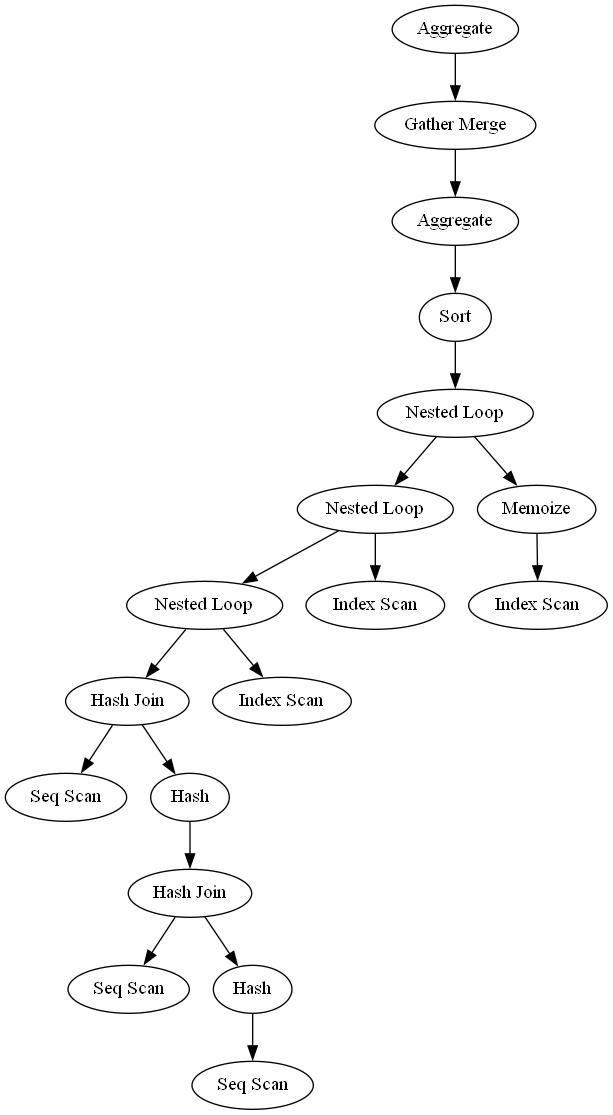
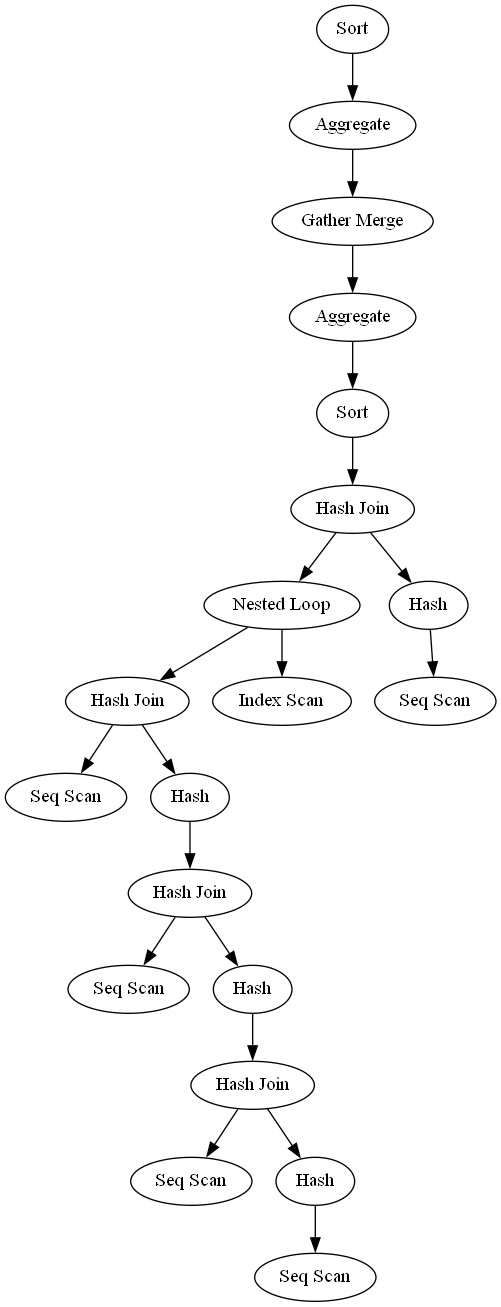
change the building tree proccess

Changed region(s): [[0.0, 0.0, 1.0, 1.0]]

diff --git a/project.py b/project.py
@@ -5,6 +5,8 @@ from typing import Dict, Any, List, Tuple, Set
 import psycopg2
 import sqlparse
 
+import interface
+
 SQL_KEYWORDS = set(
     "SELECT, FROM, WHERE, GROUP BY, HAVING, ORDER BY, LIMIT, OFFSET, JOIN, INNER JOIN, LEFT JOIN, RIGHT JOIN, FULL JOIN, CROSS JOIN, NATURAL JOIN, USING, DISTINCT, UNION, INTERSECT, EXCEPT, VALUES, FETCH, NEXT, LAST, FIRST, PRIOR, CURRENT, ROW, ROWS, OVER, PARTITION BY, RANK, DENSE_RANK, ROW_NUMBER, LAG, LEAD, FIRST_VALUE, LAST_VALUE, NTH_VALUE, CASE, WHEN, THEN, ELSE, END, CAST, COALESCE, NULLIF, GREATEST, LEAST".split(
         ", "
@@ -24,8 +26,13 @@ class QueryPlanNode:
         self.right: QueryPlanNode = right
 
     def __hash__(self):
-        return hash(self.node + str(self.totalCost) + str(
-            self.ParentRelation) + "true" if self.left else "false" + "true" if self.right else "false")
+        return hash(
+            self.node + str(self.totalCost) + str(self.ParentRelation) + "true"
+            if self.left
+            else "false" + "true"
+            if self.right
+            else "false"
+        )
 
     def __eq__(self, other: Any) -> bool:
         if not isinstance(other, QueryPlanNode):
@@ -38,10 +45,10 @@ class QueryPlanNode:
 
 class QueryPlanSortNode(QueryPlanNode):
     def __init__(
-            self,
-            node: Dict[str, Any],
-            left: QueryPlanNode = None,
-            right: QueryPlanNode = None,
+        self,
+        node: Dict[str, Any],
+        left: QueryPlanNode = None,
+        right: QueryPlanNode = None,
     ):
         super().__init__(node, left, right)
         self.SortKeys: List[str] = node["Sort Key"]
@@ -64,10 +71,10 @@ class QueryPlanSortNode(QueryPlanNode):
 
 class QueryPlanGroupNode(QueryPlanNode):
     def __init__(
-            self,
-            node: Dict[str, Any],
-            left: QueryPlanNode = None,
-            right: QueryPlanNode = None,
+        self,
+        node: Dict[str, Any],
+        left: QueryPlanNode = None,
+        right: QueryPlanNode = None,
     ):
         super().__init__(node, left, right)
         self.GroupKeys: List[str] = node["Group Key"]
@@ -90,10 +97,10 @@ class QueryPlanGroupNode(QueryPlanNode):
 
 class QueryPlanJoinNode(QueryPlanNode):
     def __init__(
-            self,
-            node: Dict[str, Any],
-            left: QueryPlanNode = None,
-            right: QueryPlanNode = None,
+        self,
+        node: Dict[str, Any],
+        left: QueryPlanNode = None,
+        right: QueryPlanNode = None,
     ):
         super().__init__(node, left, right)
         self.JoinType: str = node["Join Type"]
@@ -121,18 +128,18 @@ class QueryPlanJoinNode(QueryPlanNode):
         if not isinstance(other, QueryPlanJoinNode):
             return False
         return (
-                super().__eq__(other)
-                and self.JoinType == other.JoinType
-                and self.JoinCond == other.JoinCond
+            super().__eq__(other)
+            and self.JoinType == other.JoinType
+            and self.JoinCond == other.JoinCond
         )
 
 
 class QueryPlanScanNode(QueryPlanNode):
     def __init__(
-            self,
-            node: Dict[str, Any],
-            left: QueryPlanNode = None,
-            right: QueryPlanNode = None,
+        self,
+        node: Dict[str, Any],
+        left: QueryPlanNode = None,
+        right: QueryPlanNode = None,
     ):
         super().__init__(node, left, right)
         self.RelationName: str = node["Relation Name"]
@@ -149,18 +156,23 @@ class QueryPlanScanNode(QueryPlanNode):
         return f"{super().__str__()}"
 
     def __hash__(self):
-        return hash(str(super().__hash__()) + str(self.RelationName) + str(self.IndexName) + str(self.IndexCond) + str(
-            self.Filter))
+        return hash(
+            str(super().__hash__())
+            + str(self.RelationName)
+            + str(self.IndexName)
+            + str(self.IndexCond)
+            + str(self.Filter)
+        )
 
     def __eq__(self, other: Any) -> bool:
         if not isinstance(other, QueryPlanScanNode):
             return False
         return (
-                super().__eq__(other)
-                and self.RelationName == other.RelationName
-                and self.IndexName == other.IndexName
-                and self.IndexCond == other.IndexCond
-                and self.Filter == other.Filter
+            super().__eq__(other)
+            and self.RelationName == other.RelationName
+            and self.IndexName == other.IndexName
+            and self.IndexCond == other.IndexCond
+            and self.Filter == other.Filter
         )
 
 
@@ -192,8 +204,11 @@ class QueryPlan:
         print(self.root)
 
     def isEq(
-            self, node1: QueryPlanNode, node2: QueryPlanNode, leftTree: Set[QueryPlanNode],
-            rightTree: Set[QueryPlanNode]
+        self,
+        node1: QueryPlanNode,
+        node2: QueryPlanNode,
+        leftTree: Set[QueryPlanNode],
+        rightTree: Set[QueryPlanNode],
     ) -> None:
         if node1 is None and node2 is None:
             return
@@ -203,10 +218,18 @@ class QueryPlan:
             if node2 is not None:
                 rightTree.add(node2)
 
-        self.isEq(node1.left if node1 is not None else None, node2.left if node2 is not None else None, leftTree,
-                  rightTree)
-        self.isEq(node1.right if node1 is not None else None, node2.right if node2 is not None else None, leftTree,
-                  rightTree)
+        self.isEq(
+            node1.left if node1 is not None else None,
+            node2.left if node2 is not None else None,
+            leftTree,
+            rightTree,
+        )
+        self.isEq(
+            node1.right if node1 is not None else None,
+            node2.right if node2 is not None else None,
+            leftTree,
+            rightTree,
+        )
 
     def IsEqual(self, other) -> Tuple[bool, Set[QueryPlanNode], Set[QueryPlanNode]]:
         if not isinstance(other, QueryPlan):
@@ -319,16 +342,16 @@ def getDiff(sql1: str, sql2: str) -> dict:
 
 
 if __name__ == "__main__":
-    # interface.start_ui()
-    plan = query(
-        "select l_returnflag, l_linestatus, sum(l_quantity) as sum_qty, sum(l_extendedprice) as sum_base_price, sum(l_extendedprice * (1 - l_discount)) as sum_disc_price, sum(l_extendedprice * (1 - l_discount) * (1 + l_tax)) as sum_charge, avg(l_quantity) as avg_qty, avg(l_extendedprice) as avg_price, avg(l_discount) as avg_disc, count(*) as count_order from lineitem where l_extendedprice > 100 group by l_returnflag, l_linestatus order by l_returnflag, l_linestatus;")
-    q1 = QueryPlan(plan["Plan"])
-    plan = query(
-        "select l_orderkey, sum(l_extendedprice * (1 - l_discount)) as revenue, o_orderdate, o_shippriority from customer, orders, lineitem where c_mktsegment = 'BUILDING' and c_custkey = o_custkey and l_orderkey = o_orderkey and o_totalprice > 10 and l_extendedprice > 10 group by l_orderkey, o_orderdate, o_shippriority order by revenue desc, o_orderdate;")
-    q2 = QueryPlan(plan["Plan"])
+    interface.start_ui()
+    # plan = query(
+    #     "select l_returnflag, l_linestatus, sum(l_quantity) as sum_qty, sum(l_extendedprice) as sum_base_price, sum(l_extendedprice * (1 - l_discount)) as sum_disc_price, sum(l_extendedprice * (1 - l_discount) * (1 + l_tax)) as sum_charge, avg(l_quantity) as avg_qty, avg(l_extendedprice) as avg_price, avg(l_discount) as avg_disc, count(*) as count_order from lineitem where l_extendedprice > 100 group by l_returnflag, l_linestatus order by l_returnflag, l_linestatus;")
+    # q1 = QueryPlan(plan["Plan"])
+    # plan = query(
+    #     "select l_orderkey, sum(l_extendedprice * (1 - l_discount)) as revenue, o_orderdate, o_shippriority from customer, orders, lineitem where c_mktsegment = 'BUILDING' and c_custkey = o_custkey and l_orderkey = o_orderkey and o_totalprice > 10 and l_extendedprice > 10 group by l_orderkey, o_orderdate, o_shippriority order by revenue desc, o_orderdate;")
+    # q2 = QueryPlan(plan["Plan"])
 
-    a, b, c = q1.IsEqual(q2)
-    for i in b:
-        print(str(b))
-    for i in c:
-        print(str(c))
+    # a, b, c = q1.IsEqual(q2)
+    # for i in b:
+    #     print(str(b))
+    # for i in c:
+    #     print(str(c))

diff --git a/interface.py b/interface.py
@@ -103,7 +103,7 @@ def build_tree_diff(root: QueryPlanNode, parent=None) -> Node:
     return current_node
 
 
-def build_tree(root: QueryPlanNode, parent=None, diff=None) -> Node:
+def build_tree(root: QueryPlanNode, parent=None, diff=None, diff2=None) -> Node:
     current_node = None
     if not diff:
         current_node = Node(root.node, parent=parent)
@@ -112,18 +112,31 @@ def build_tree(root: QueryPlanNode, parent=None, diff=None) -> Node:
         if root.right:
             build_tree(root.right, parent=current_node)
     else:
-        if diff.node != root.node:
+        if root in diff or root in diff2:
             current_node = Node(root.node, parent=parent, color="red")
             if root.left:
-                build_tree_diff(root.left, parent=current_node)
+                build_tree(root.left, parent=current_node, diff=diff, diff2=diff2)
             if root.right:
-                build_tree_diff(root.right, parent=current_node)
+                build_tree(root.right, parent=current_node, diff=diff, diff2=diff2)
         else:
             current_node = Node(root.node, parent=parent)
             if root.left:
-                build_tree(root.left, parent=current_node, diff=diff)
+                build_tree(root.left, parent=current_node, diff=diff, diff2=diff2)
             if root.right:
-                build_tree(root.right, parent=current_node, diff=diff)
+                build_tree(root.right, parent=current_node, diff=diff, diff2=diff2)
+
+        # if diff.node != root.node:
+        #     current_node = Node(root.node, parent=parent, color="red")
+        #     if root.left:
+        #         build_tree_diff(root.left, parent=current_node)
+        #     if root.right:
+        #         build_tree_diff(root.right, parent=current_node)
+        # else:
+        #     current_node = Node(root.node, parent=parent)
+        #     if root.left:
+        #         build_tree(root.left, parent=current_node, diff=diff)
+        #     if root.right:
+        #         build_tree(root.right, parent=current_node, diff=diff)
 
     return current_node
 
@@ -196,8 +209,8 @@ def compare_btn(window: sg.Window, event, values):
 
         if not equal:
             tree_1 = build_tree(q_plan_1_nodes.root)
-            tree_2 = build_tree(q_plan_2_nodes.root, diff=output[1])
-            explaination = explain(diff_query, output)
+            tree_2 = build_tree(q_plan_2_nodes.root, diff=output[1], diff2=output[2])
+            # explaination = explain(diff_query, output)
         else:
             tree_1 = build_tree(q_plan_1_nodes.root)
             tree_2 = build_tree(q_plan_2_nodes.root)
